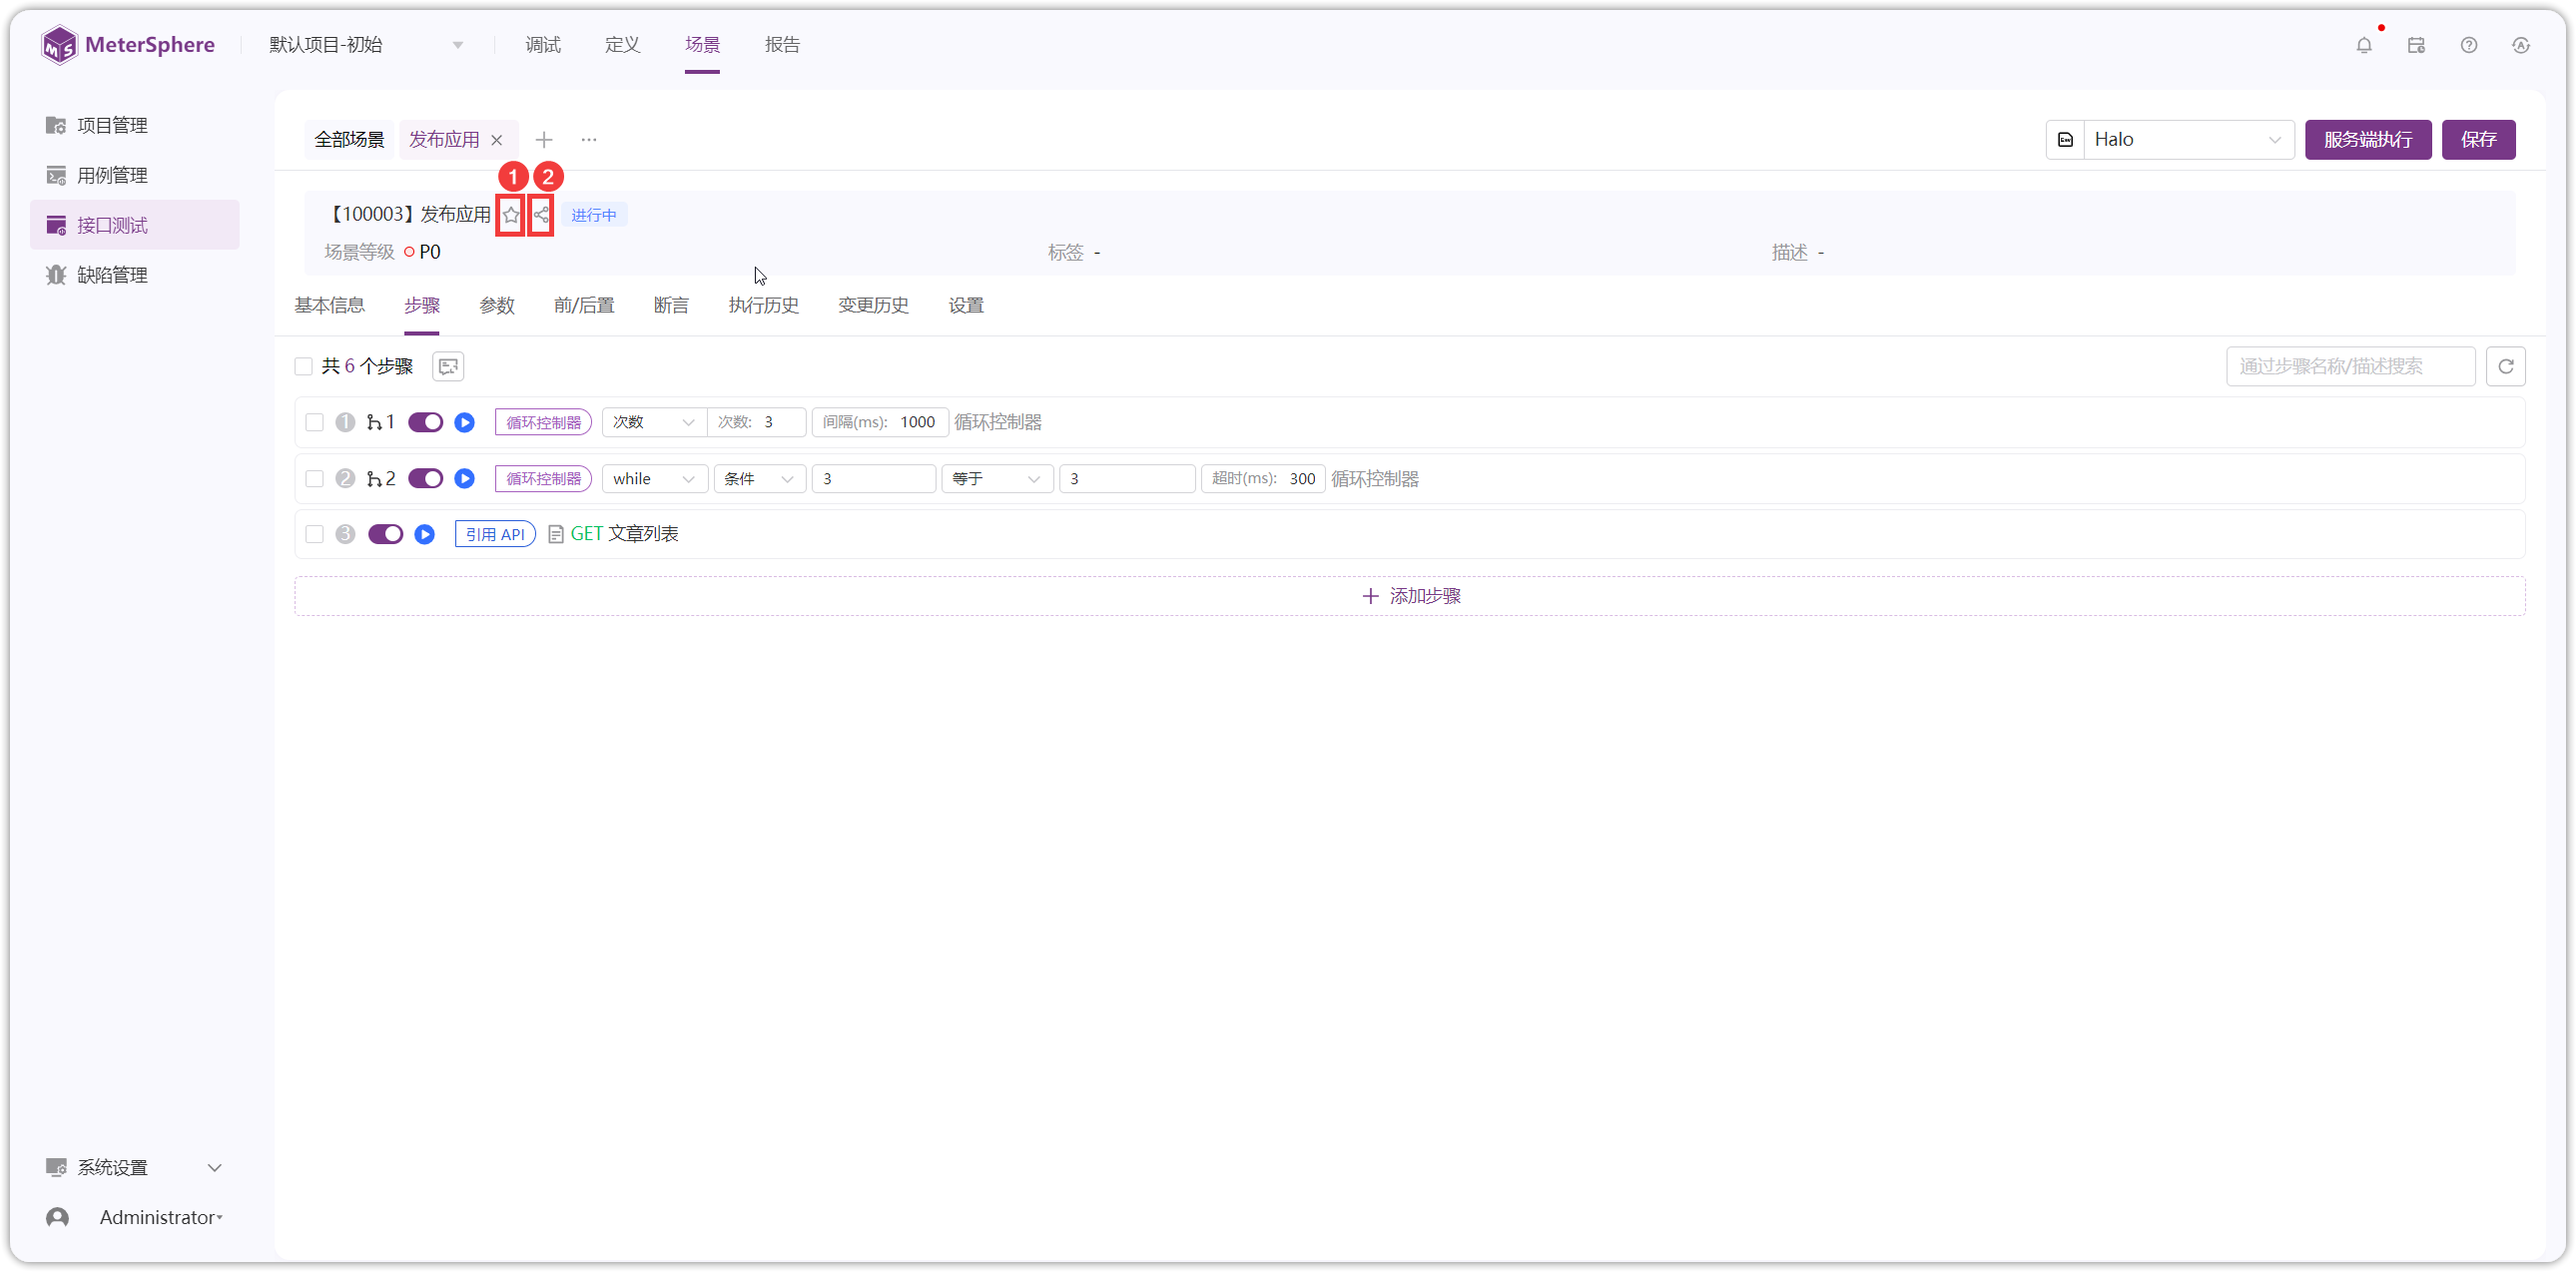
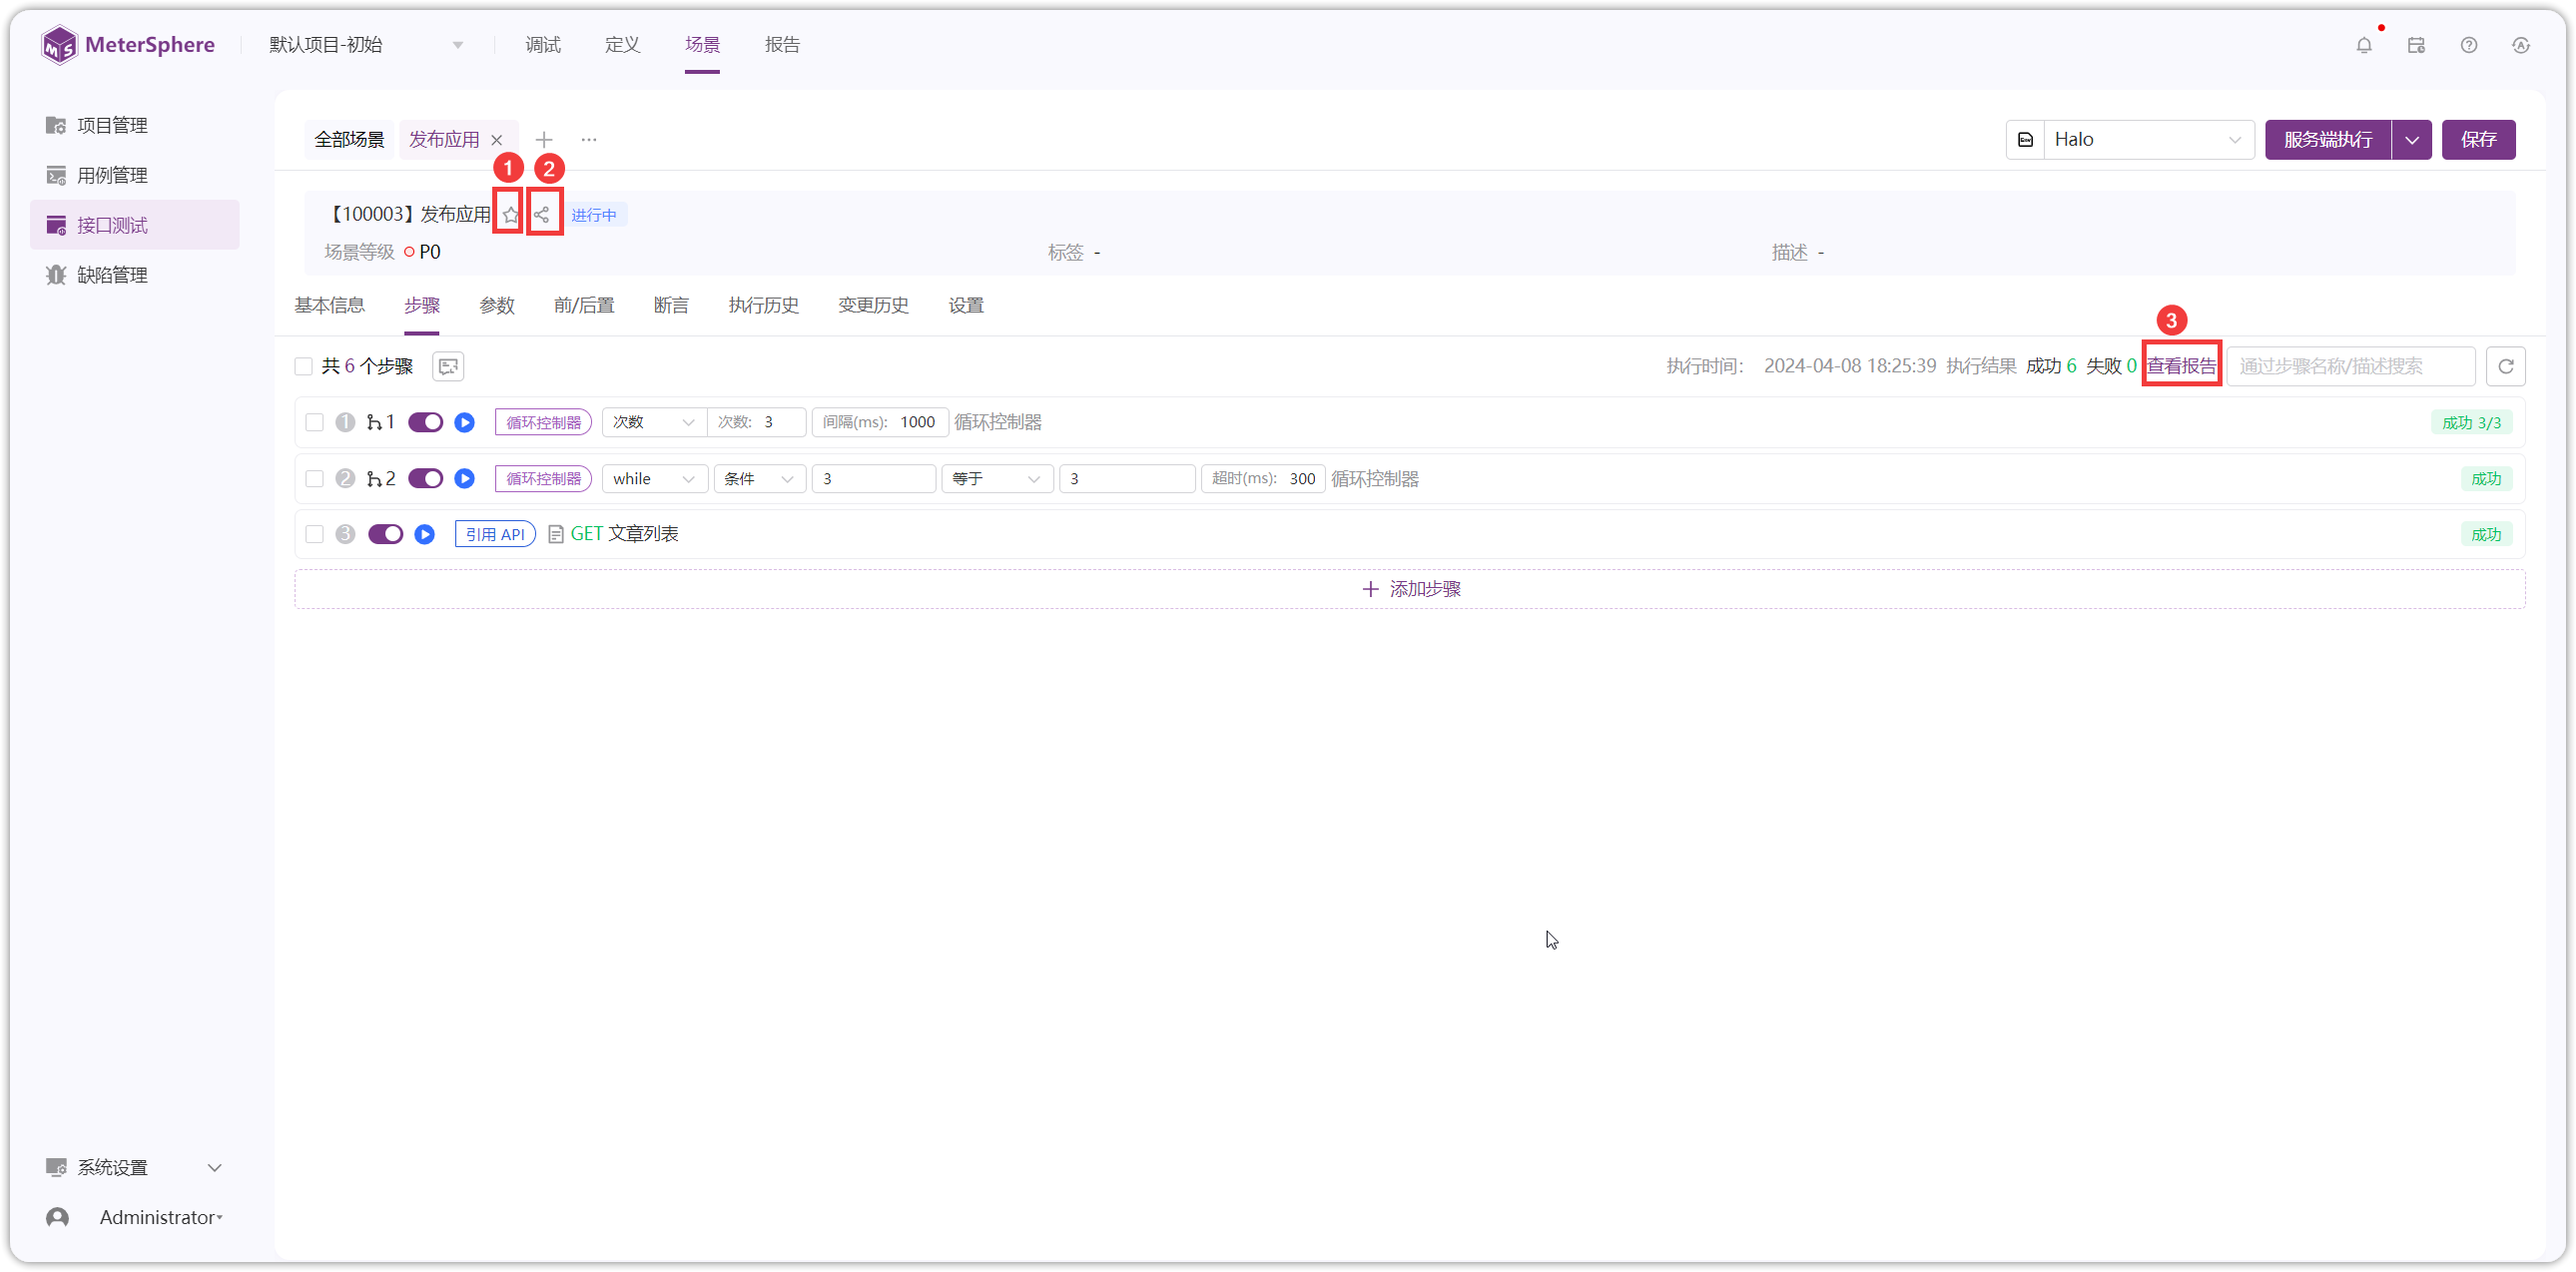
modified:【场景】模块

diff --git a/docs/user_manual/api_test/api_automation.md b/docs/user_manual/api_test/api_automation.md
@@ -32,7 +32,7 @@ description: MeterSphere 一站式开源持续测试平台官方文档。MeterSp
 
 !!! ms-abstract "注意"
     尽量避免使用同名变量，使用同名变量时，场景级 CSV 优先级最高 <br>
-    场景参数优先级：临时参数 > 场景参数 > 环境参数 > 全局参数 <br>
+    **场景参数优先级**：临时参数 > 场景参数 > 环境参数 > 全局参数 <br>
     **临时参数**: vars.put() 方式存储参数 和 后置操作提取的参数，一般采用就近原则使用参数。
 
 ### 1.3 前/后置
@@ -179,6 +179,7 @@ description: MeterSphere 一站式开源持续测试平台官方文档。MeterSp
 ![!功能操作](../../img/api_test/api_automation/添加步骤.png){ width="900px" }
 
 !!! ms-abstract "操作说明"
+
     - **【启用/禁用】** 启用，场景执行该步骤；禁用后，场景执行不再执行该步骤
     - **【执行】** 服务端执行该步骤
     - **【复制】** 复制该步骤
@@ -192,8 +193,14 @@ description: MeterSphere 一站式开源持续测试平台官方文档。MeterSp
 ![!批量操作功能](../../img/api_test/api_automation/批量操作功能.png){ width="900px" }
 
 !!! ms-abstract ""
-    如下图，可以【关注】和【复制链接】，浏览器上粘贴该链接可以打开该场景
+    如下图，可以进行【关注】、【复制链接】、【查看报告】等操作
 ![!批量操作功能](../../img/api_test/api_automation/分享链接.png){ width="900px" }
+
+!!! ms-abstract "操作说明"
+
+    - **【关注】** 点击后，可加入到"我的关注"列表
+    - **【复制链接】** 复制链接后，粘贴到浏览器上，可打开该场景
+    - **【查看报告】** 可查看本次场景的执行情况
 
 !!! ms-abstract ""
     如下图，可对列表场景进行【编辑】、【执行】、【复制】、【删除】等操作
